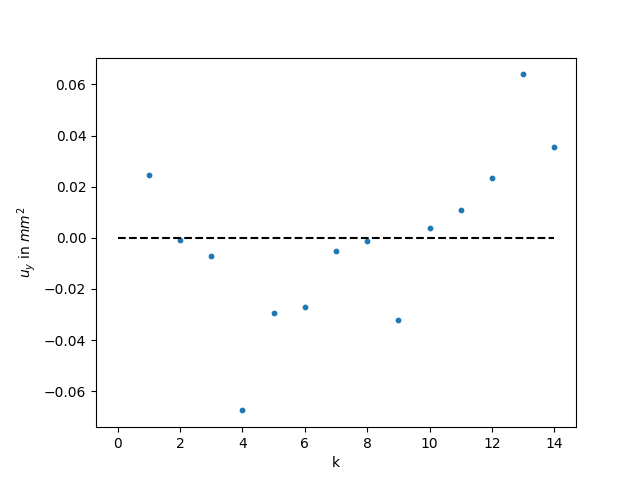
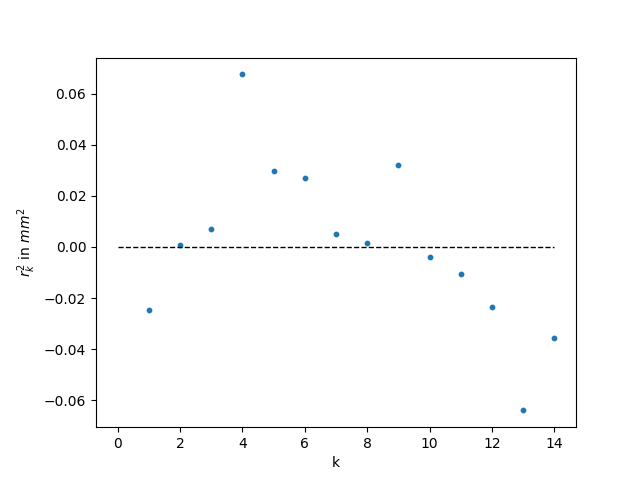
fixed wrong residual calculation

diff --git a/IMP_utils_py/physics/plotting.py b/IMP_utils_py/physics/plotting.py
@@ -153,13 +153,13 @@ def residual_plot(data_path: str, graphic_path: str, x_column: str, x_error_colu
         n = model_params[1]
 
     if intercept_zero:
-        residuals = [linear_zero_model(x.iloc[idx], m)-y.iloc[idx] for idx in range(len(x))]
+        residuals = [y.iloc[idx]-linear_zero_model(x.iloc[idx], m) for idx in range(len(x))]
     else:
-        residuals = [linear_model(x.iloc[idx], m, n)-y.iloc[idx] for idx in range(len(x))]
+        residuals = [y.iloc[idx]-linear_model(x.iloc[idx], m, n) for idx in range(len(x))]
 
     plt.scatter(x, residuals, s=10)
     x_intervall = np.linspace(0, max_length, 1000)
-    ax.plot(x_intervall, 0*x_intervall, '--k')
+    ax.plot(x_intervall, 0*x_intervall, '--k', linewidth=1)
     
     ax.set_xticks(np.linspace(0, max_length, x_ticks_number))
     ax.set_title(title)
